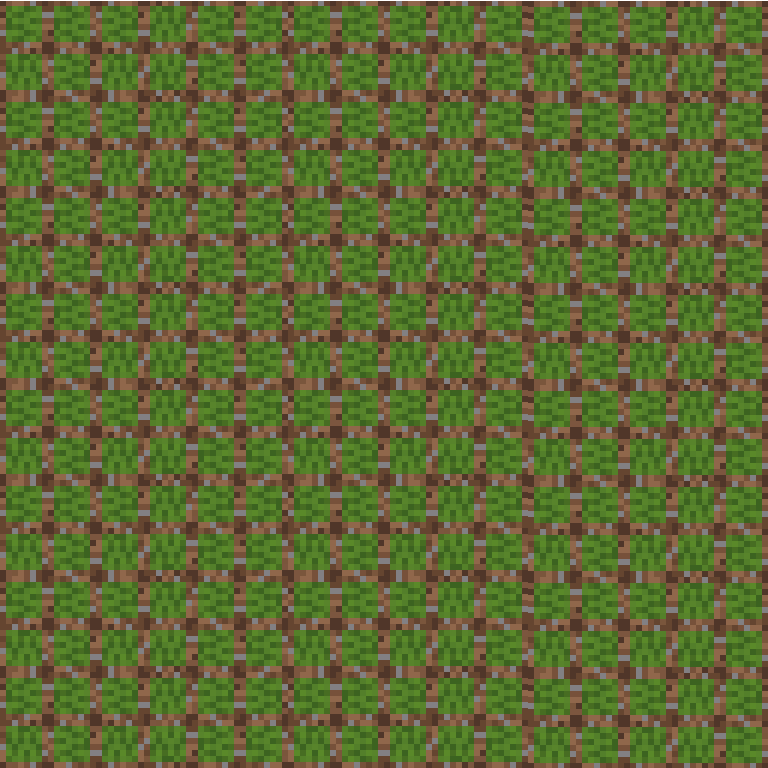
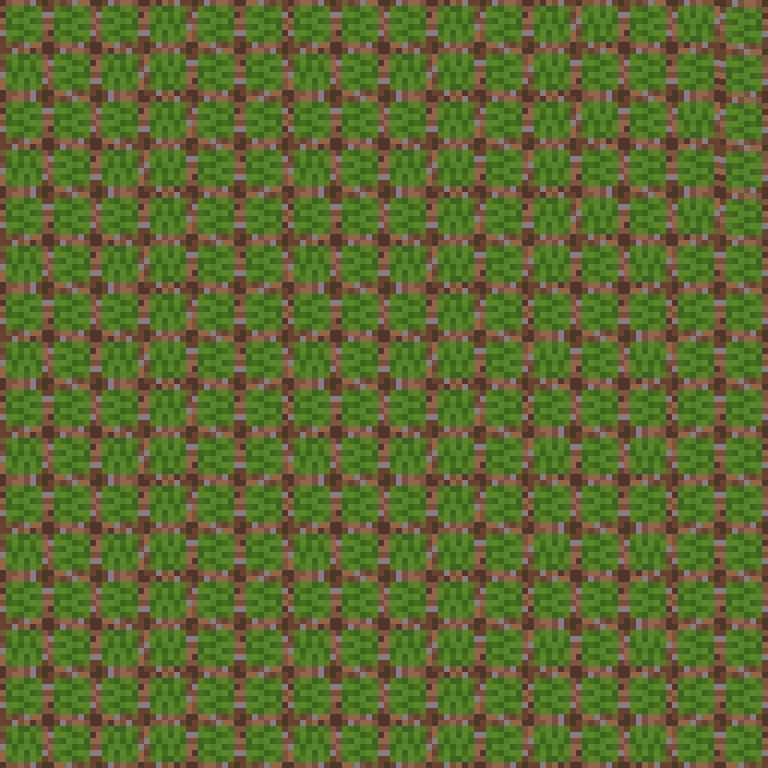
little changes.

Changed region(s): [[0.6875, 0.0, 1.0, 1.0]]

diff --git a/src/com/MateuszLebioda/GamePanel.java b/src/com/MateuszLebioda/GamePanel.java
@@ -8,45 +8,53 @@ import java.awt.event.KeyEvent;
 import java.awt.event.KeyListener;
 import java.util.ArrayList;
 import java.util.List;
+import java.util.Random;
 
 public class GamePanel extends JPanel implements KeyListener, ActionListener {
 
-    public  GamePanel(){
+    private Random random = new Random();
+
+    private GroundPowder groundPowder = new GroundPowder();
+    GamePanel(){
         addKeyListener(this);
         setFocusable(true);
         setFocusTraversalKeysEnabled(false);
         timer = new Timer(time, this);
         timer.start();
         initCreeper();
+        rollGroundPowder();
     }
 
-    Timer timer;
+    private Timer timer;
 
-    static final int RIGHT = 0;
-    static final int LEFT = 1;
-    static final int UP = 2;
-    static final int DOWN = 3;
+    private static final int RIGHT = 0;
+    private static final int LEFT = 1;
+    private static final int UP = 2;
+    private static final int DOWN = 3;
 
-    int moves = 0;
+    private int moves = 0;
 
-    int side;
-
-    private int x[] = new int [] {24,73,122,171,220,269,318,367,416,465,514,563,612,661,710,759};
-    private int y[] = new int [] {24,73,122,171,220,269,318,367,416,465,514,563,612,661,710,759};
+    private int side;
 
     private int CreeperLength = 3;
     private List<Creeper> creeperBody = new ArrayList<>();
 
 
-    int time = 100;
+    private int time = 100;
 
     private ImageIcon area;
+    private ImageIcon border;
+    private ImageIcon groundPowderIcon;
 
     public void paint(Graphics g) {
 
         /*Paint background*/
+        //this.setSize(768,768);
+
         area = new ImageIcon("resources/Background.png");
-        area.paintIcon(this, g, 24, 24);
+        area.paintIcon(this, g, 0, 0);
+        border = new ImageIcon("resources/border.png");
+        border.paintIcon(this,g,0,0);
 
 
         for (int i = 0; i < CreeperLength; i++) {
@@ -84,7 +92,7 @@ public class GamePanel extends JPanel implements KeyListener, ActionListener {
                                 break;
                             }
                             case GamePanel.UP: {
-                                setIcon(i, g, "resources/SnakeBodyLeftDown.png");
+                                setIcon(i, g, "resources/SnakeBodyLeftUp.png");
                                 break;
                             }
                         }
@@ -147,6 +155,14 @@ public class GamePanel extends JPanel implements KeyListener, ActionListener {
                 //g.dispose();
             }
         }
+        groundPowderIcon = new ImageIcon("resources/GroundPowder.png");
+        if(creeperBody.get(0).x == groundPowder.x && creeperBody.get(0).y == groundPowder.y){
+            creeperBody.add(new Creeper());
+            CreeperLength++;
+            rollGroundPowder();
+        }
+        groundPowderIcon.paintIcon(this,g,groundPowder.x,groundPowder.y);
+
     }
 
 
@@ -157,16 +173,16 @@ public class GamePanel extends JPanel implements KeyListener, ActionListener {
         }
         side = GamePanel.RIGHT;
 
-        creeperBody.get(0).x = 121;
-        creeperBody.get(0).y = 120;
+        creeperBody.get(0).x = 48*3;
+        creeperBody.get(0).y = 48*2;
         creeperBody.get(0).side = GamePanel.RIGHT;
 
-        creeperBody.get(1).x = 73;
-        creeperBody.get(1).y = 120;
+        creeperBody.get(1).x = 48*2;
+        creeperBody.get(1).y = 48*2;
         creeperBody.get(1).side = GamePanel.RIGHT;
 
-        creeperBody.get(2).y = 120;
-        creeperBody.get(2).x = 25;
+        creeperBody.get(2).y = 48*2;
+        creeperBody.get(2).x = 48;
         creeperBody.get(2).side = GamePanel.RIGHT;
     }
     void setIcon(int i,Graphics g,String way){
@@ -244,23 +260,25 @@ public class GamePanel extends JPanel implements KeyListener, ActionListener {
     public void keyPressed(KeyEvent e) {
         switch(e.getKeyCode()){
             case KeyEvent.VK_RIGHT:{
-                if(side != GamePanel.LEFT) {
+                if(creeperBody.get(0).side != GamePanel.LEFT) {
                     moves++;
                     side = GamePanel.RIGHT;
                 }break;
             }case KeyEvent.VK_LEFT:{
-                if(side != GamePanel.RIGHT){
+                if(creeperBody.get(0).side != GamePanel.RIGHT){
                     moves++;
                     side = GamePanel.LEFT;
                 }break;
             }case KeyEvent.VK_UP:{
-                moves++;
-                side = GamePanel.UP;
-                break;
+                if(creeperBody.get(0).side != GamePanel.DOWN) {
+                    moves++;
+                    side = GamePanel.UP;
+                }break;
             }case KeyEvent.VK_DOWN:{
-                moves++;
-                side = GamePanel.DOWN;
-                break;
+                if(creeperBody.get(0).side != GamePanel.UP) {
+                    moves++;
+                    side = GamePanel.DOWN;
+                }break;
             }
         }
     }
@@ -268,5 +286,18 @@ public class GamePanel extends JPanel implements KeyListener, ActionListener {
     @Override
     public void keyReleased(KeyEvent e) {
 
+    }
+
+    private void rollGroundPowder(){
+        groundPowder.x = (random.nextInt(13)+1)*48;
+        groundPowder.y = (random.nextInt(13)+1)*48;
+
+        for(int i = 0; i < CreeperLength ; i++){
+            if(creeperBody.get(i).x == groundPowder.x && groundPowder.y == creeperBody.get(i).y){
+                groundPowder.x = (random.nextInt(13)+1)*48;
+                groundPowder.y = (random.nextInt(13)+1)*48;
+                i = 0;
+            }
+        }
     }
 }

diff --git a/src/com/MateuszLebioda/Game.java b/src/com/MateuszLebioda/Game.java
@@ -9,9 +9,10 @@ public class Game {
     Game() {
         GamePanel gamePanel = new GamePanel();
         JFrame frame = new JFrame("Snake II");
-        frame.add(gamePanel);
+
         frame.setResizable(false);
-        frame.setSize(834,868);
+        frame.setSize(784,806);
+        frame.add(gamePanel);
         frame.setDefaultCloseOperation(JFrame.EXIT_ON_CLOSE);
         frame.setVisible(true);
     }

diff --git a/src/com/MateuszLebioda/Creeper.java b/src/com/MateuszLebioda/Creeper.java
@@ -6,6 +6,5 @@ public class Creeper {
     public int x;
     public int y;
     public ImageIcon bodyIcon;
-    public int prevSide;
     public int side;
 }

diff --git a/src/com/MateuszLebioda/GroundPowder.java b/src/com/MateuszLebioda/GroundPowder.java
@@ -1,0 +1,7 @@
+package com.MateuszLebioda;
+
+public class GroundPowder {
+    int x;
+    int y;
+
+}
